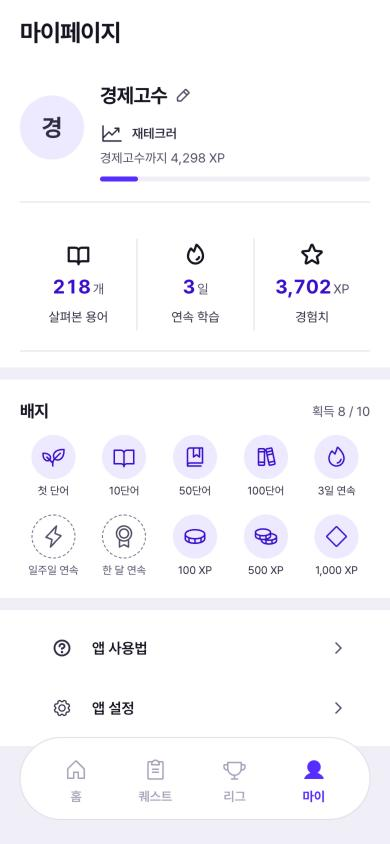
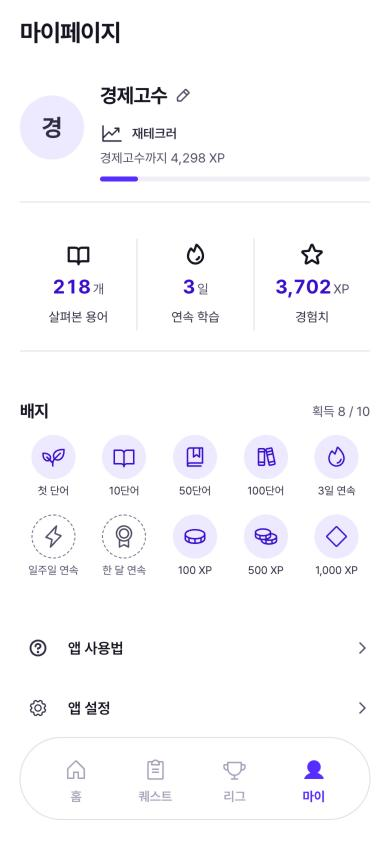
퀘스트·리그·마이 흰 바탕으로 통일, 마이 메뉴 행 여백을 본문과 맞춤, 스크린샷 갱신

Changed region(s): [[0.0615, 0.7393, 0.3692, 0.8009], [0.0615, 0.8318, 0.3385, 0.8626]]

diff --git a/src/index.css b/src/index.css
@@ -1215,3 +1215,7 @@ button.review-aux-button:disabled { color: var(--color-ink-3); }
 .course-home-topic-list .course-home-topic > div { padding-left: 0; padding-right: 0; }
 .course-home-level-heading { padding: var(--space-5) 0 var(--space-1); color: var(--color-ink-3); font-size: var(--font-size-label); font-weight: var(--font-weight-semibold); }
 .course-home-level-heading:first-child { padding-top: var(--space-3); }
+/* 퀘스트·리그·마이는 흰 바탕. 섹션 사이는 라벤더 띠 대신 구분선 */
+.quest-screen, .league-screen, .my-page-screen { background: var(--color-card); }
+.my-page-sections .my-page-panel.my-page-menu { padding-inline: 0; }
+.my-page-menu button > div { padding-inline: var(--space-5); }

diff --git a/src/pages/LeagueScreen.tsx b/src/pages/LeagueScreen.tsx
@@ -49,7 +49,7 @@ const LeagueScreen = () => {
   const stage = getGrowthStage(xp);
 
   return (
-    <div className="league-screen app-soft-screen flex flex-col h-full pb-nav overflow-y-auto [&::-webkit-scrollbar]:hidden">
+    <div className="league-screen flex flex-col h-full pb-nav overflow-y-auto [&::-webkit-scrollbar]:hidden">
       <div className="pt-4 px-5 pb-4">
         <div className="flex justify-between items-center mb-4">
           <h2 className="type-page-title">리그</h2>

diff --git a/src/pages/HomeScreen.tsx b/src/pages/HomeScreen.tsx
@@ -36,7 +36,7 @@ const HomeScreen = () => {
   const resetLabel = `${Math.ceil(msUntilNextSlot() / 3600000)}시간 뒤 초기화`;
 
   return (
-    <div className="app-soft-screen flex flex-col h-full pb-nav overflow-y-auto [&::-webkit-scrollbar]:hidden">
+    <div className="quest-screen flex flex-col h-full pb-nav overflow-y-auto [&::-webkit-scrollbar]:hidden">
 
       <div className="pt-4 px-5 pb-4">
         <h2 className="type-page-title mb-4!">퀘스트</h2>
